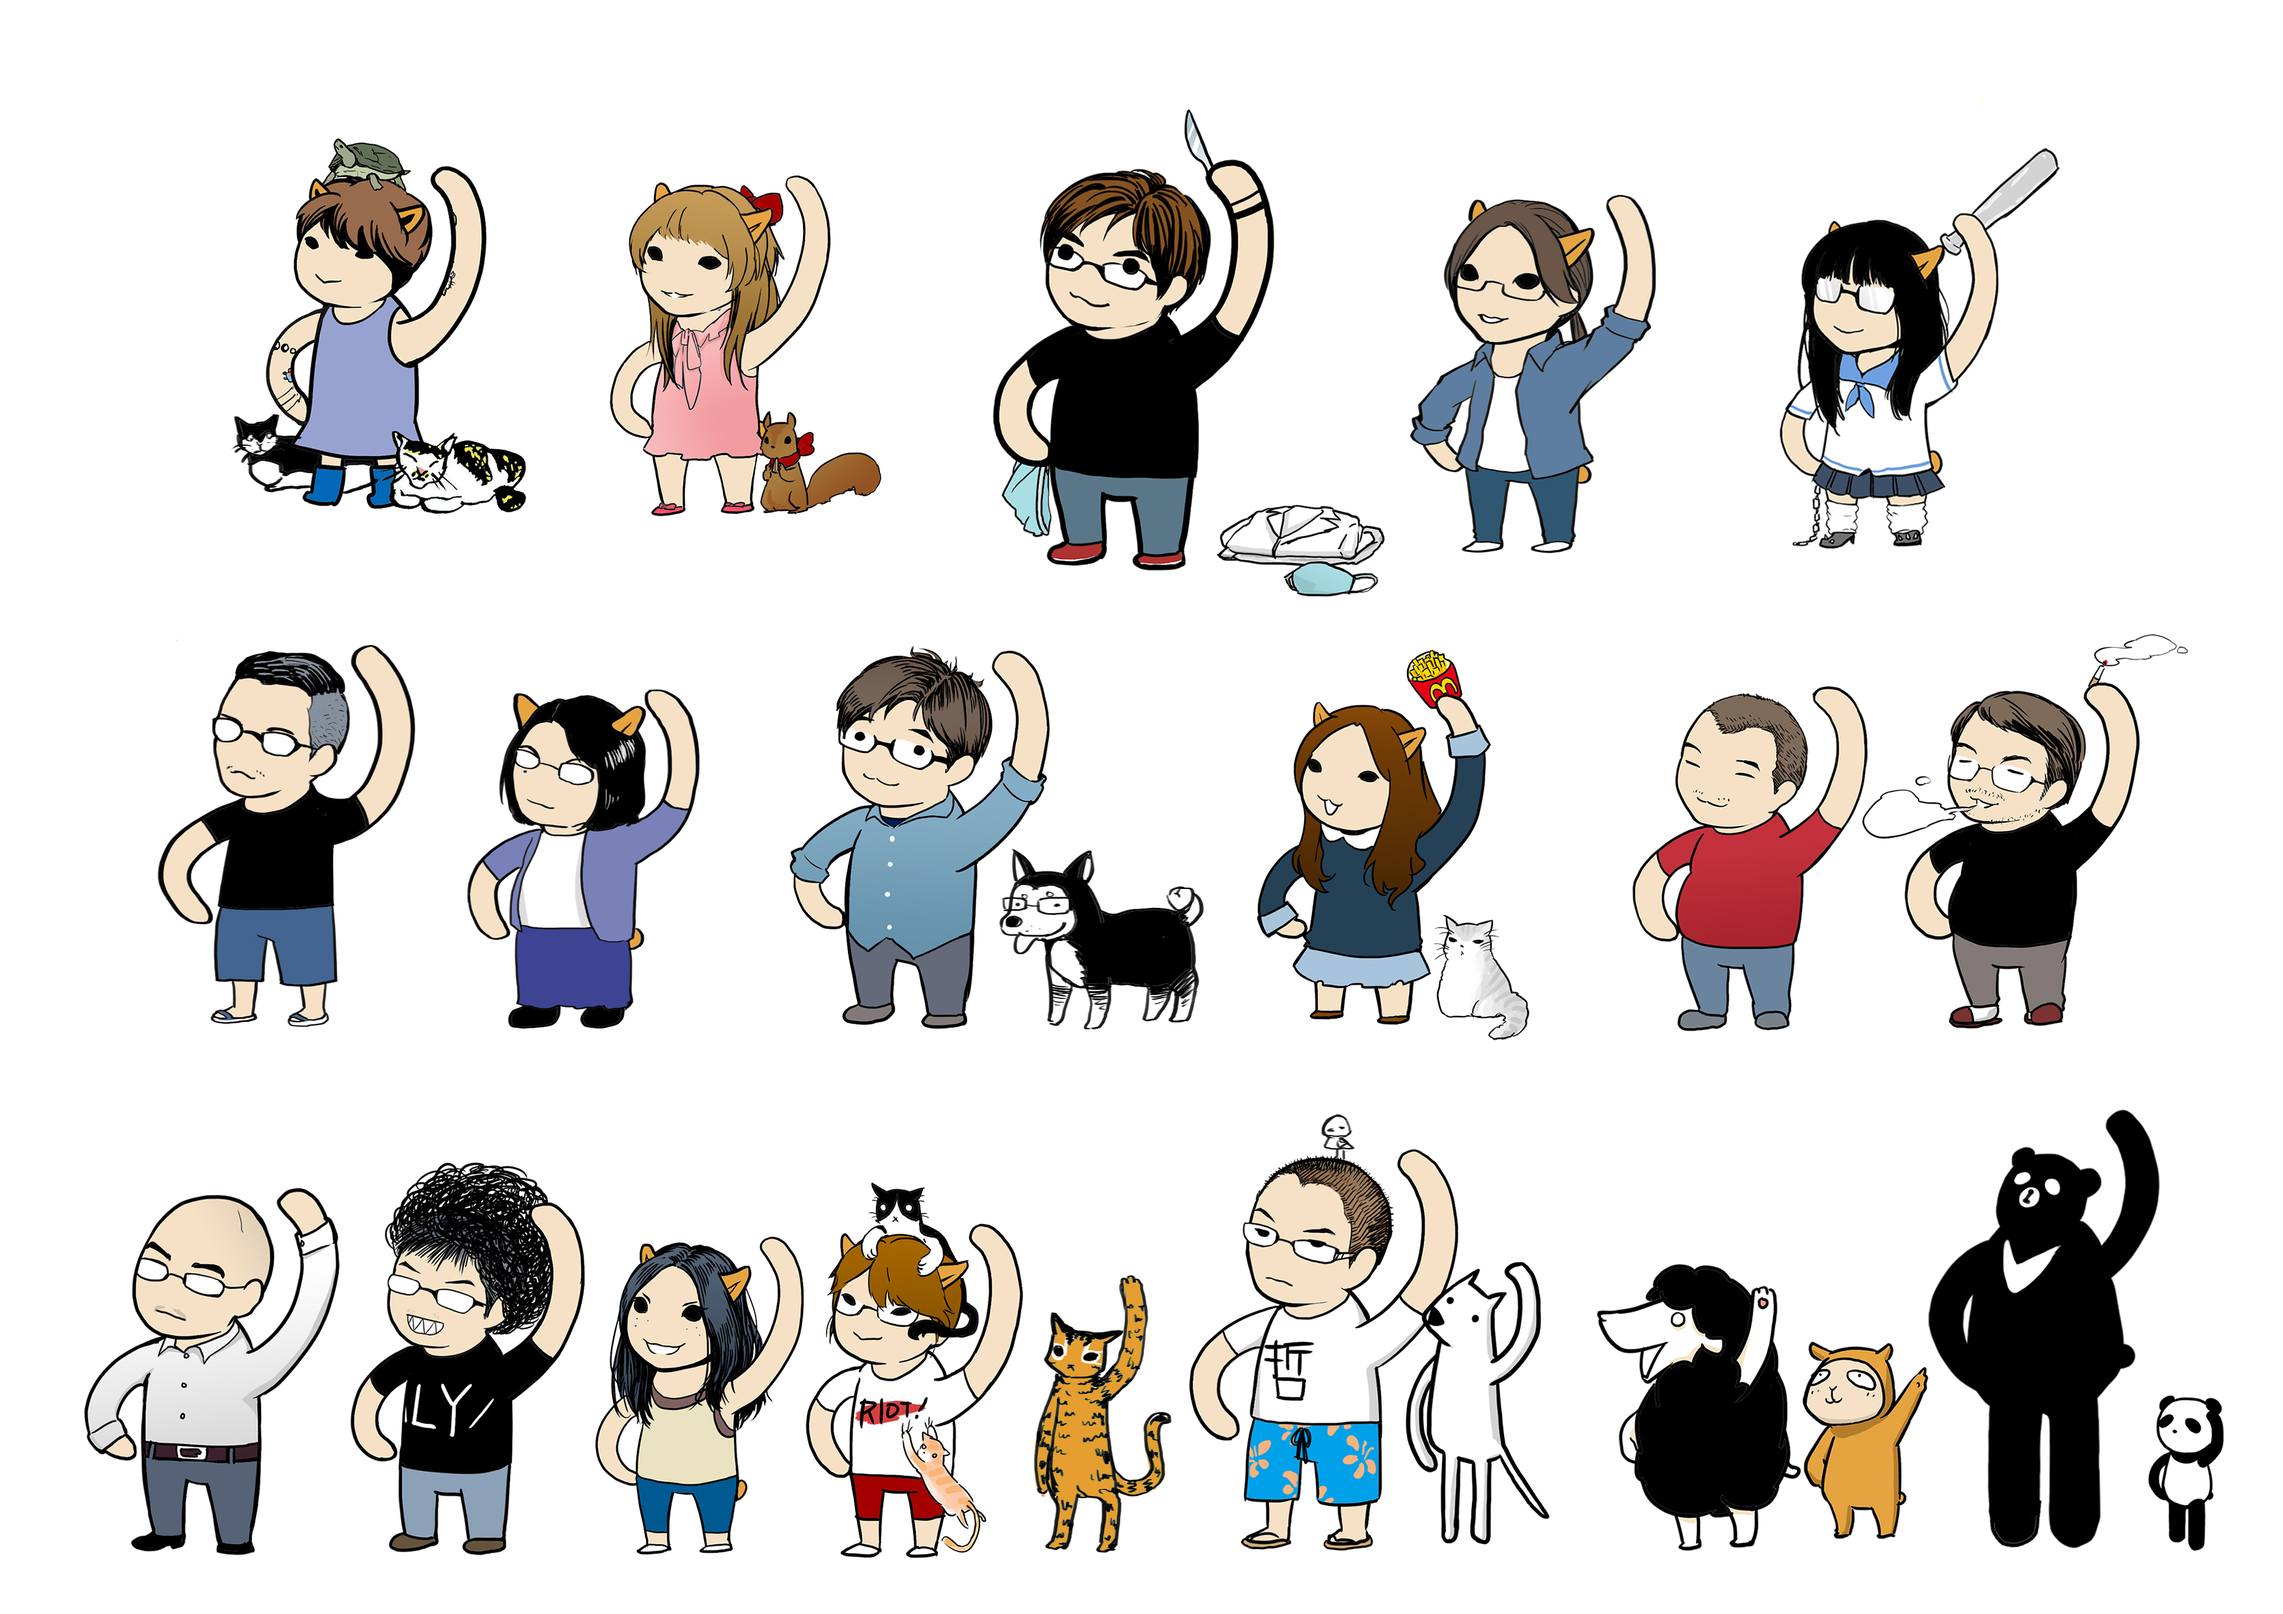
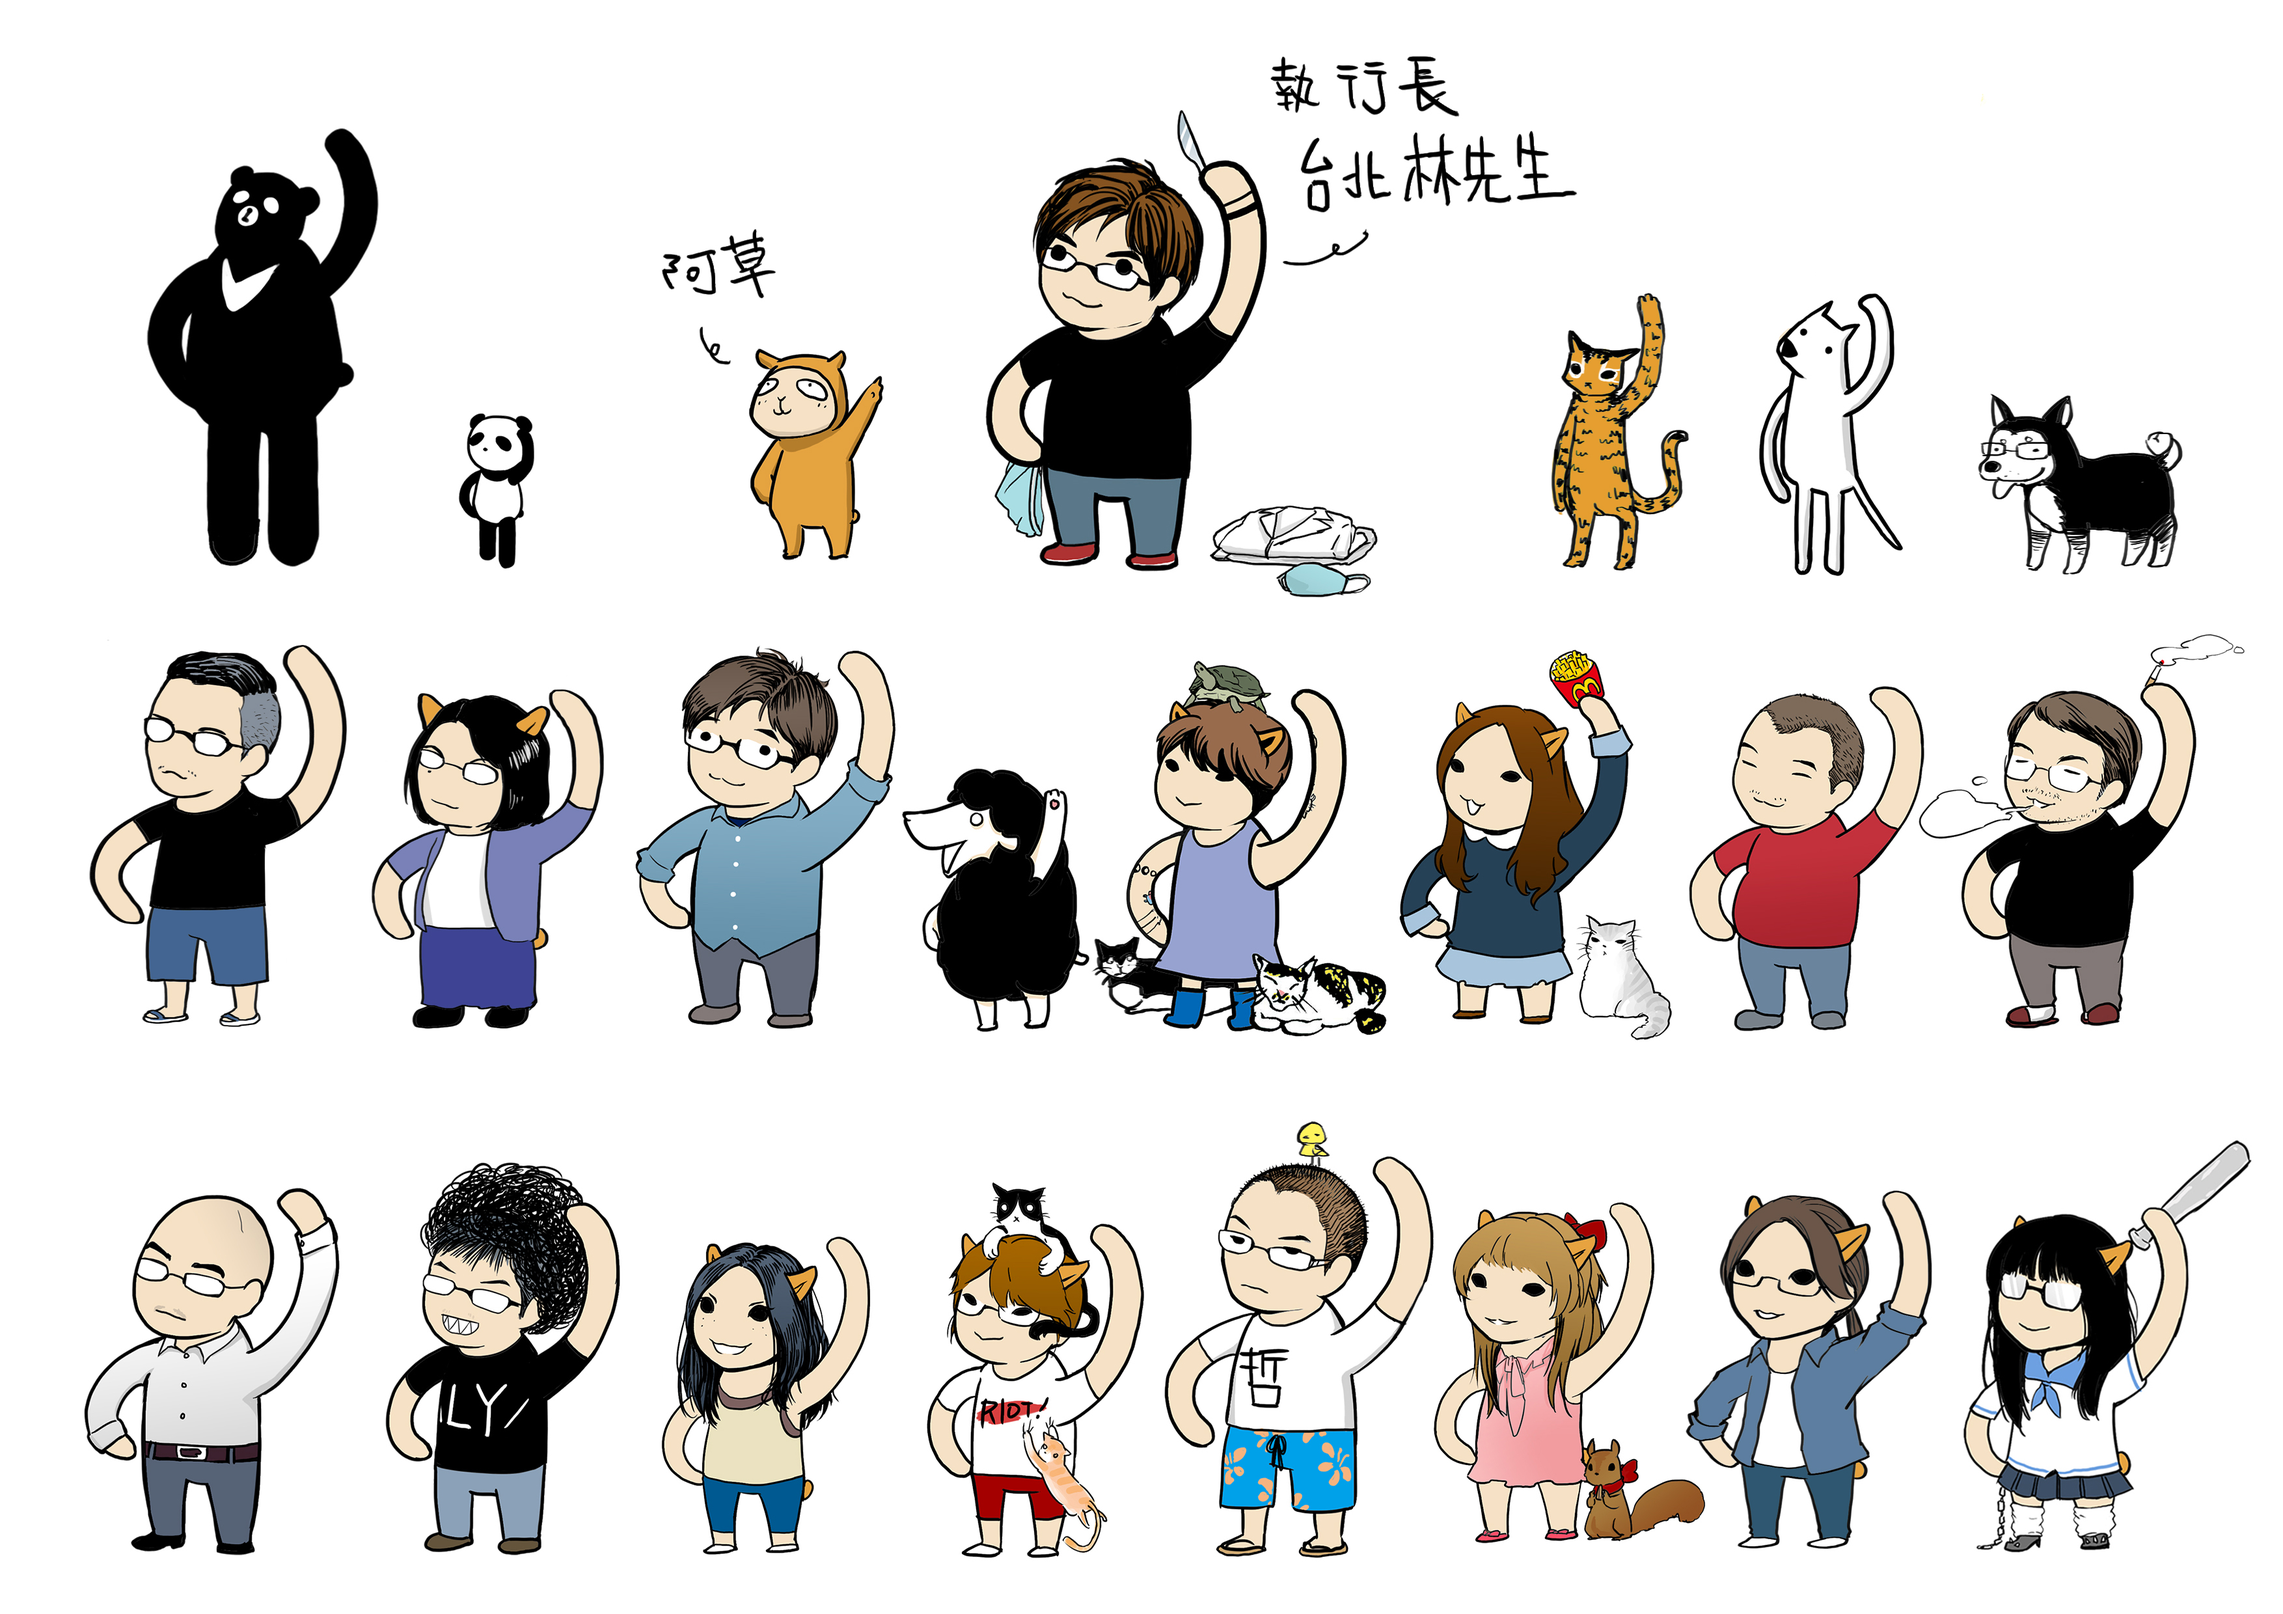
update team image / add dialogue css

diff --git a/main.css b/main.css
@@ -220,6 +220,27 @@ a.musou_link, a.musou_link:visited {
 }
 .team_slogan {
   background: #8DD3C7;
+  position: relative;
+}
+.team_slogan:after {
+    content: '';
+    border-top: 30px solid #8DD3C7;
+    border-left: 20px solid transparent;
+    border-right: 0px solid transparent;
+    position: absolute;
+    bottom: -30px;
+    left: 40%;
+    height: 10px;
+    width: 20px; 
+}
+@media all and (min-width: 500px){
+ .team_slogan:after {
+    border-top: 55px solid #8DD3C7;
+    border-left: 30px solid transparent;
+    border-right: 0px solid transparent;
+    height: 60px;
+    bottom: -60px;
+  }
 }
 .member_slot {
   background: rgba(255,255,255,0.9)!important;
